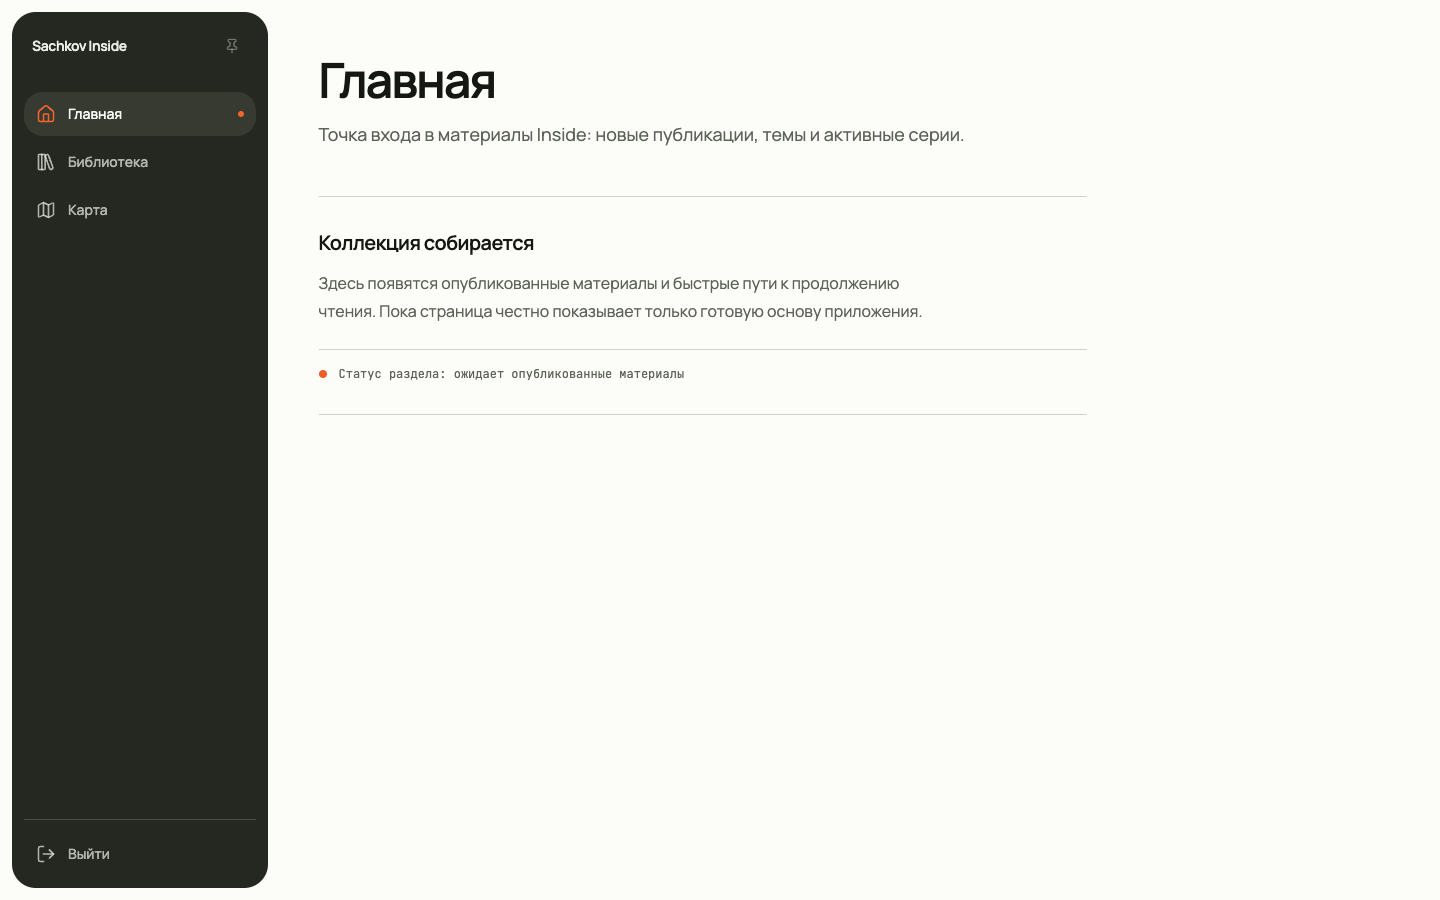
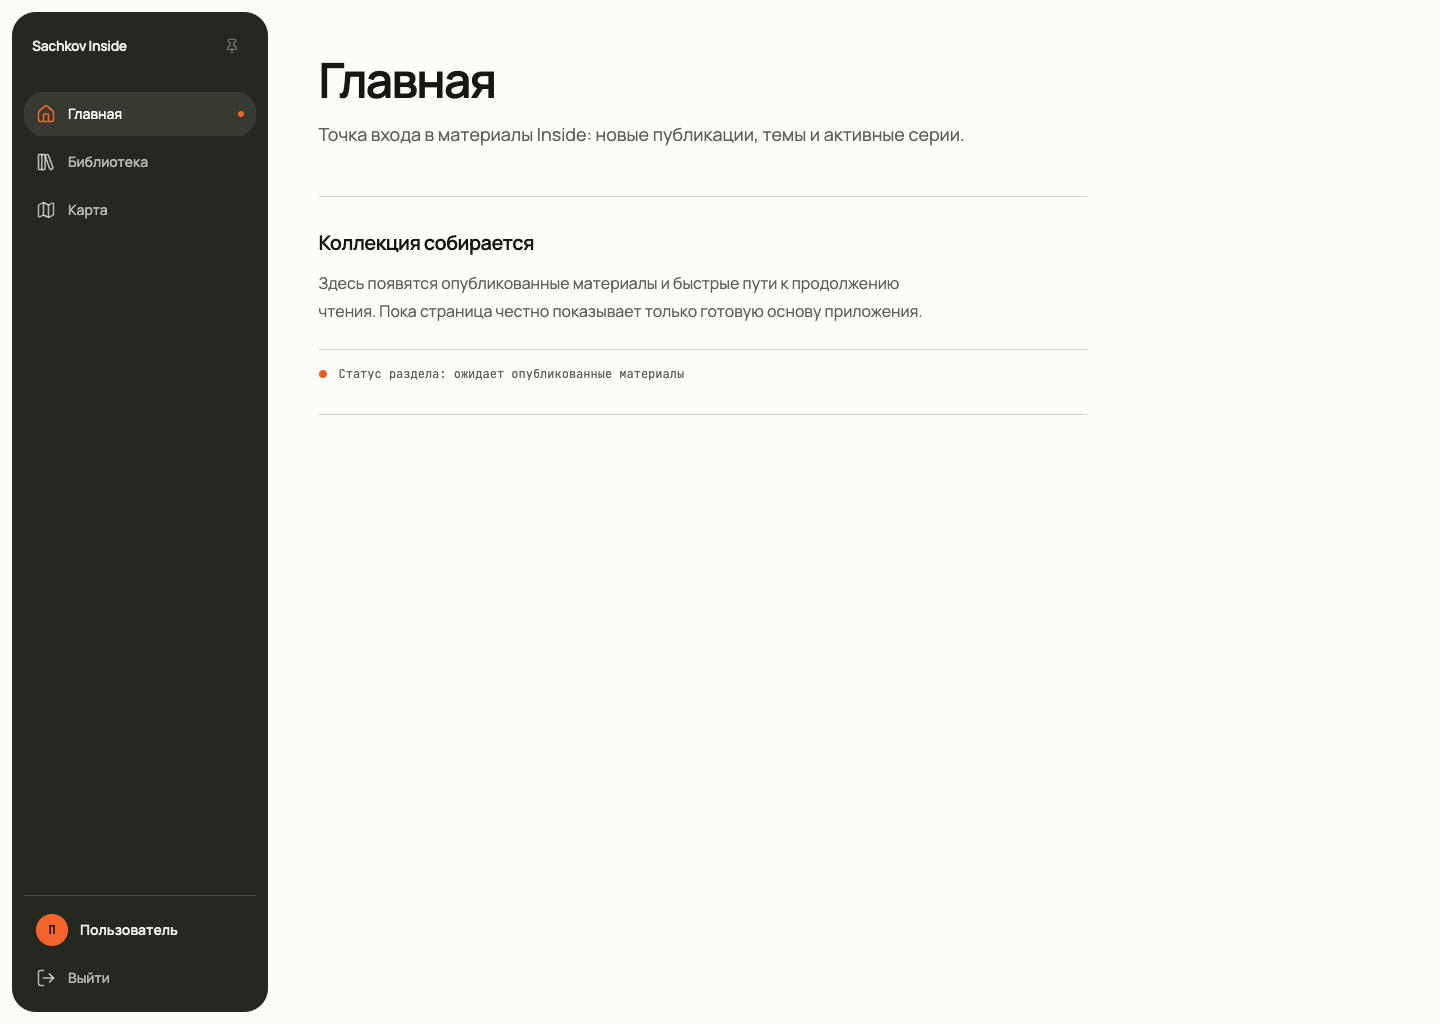
feat: align identity experience with Platform (#49)

diff --git a/infra/identity/logto/fork/packages/experience/src/containers/VerificationCode/use-sign-in-flow-code-verification.ts b/infra/identity/logto/fork/packages/experience/src/containers/VerificationCode/use-sign-in-flow-code-verification.ts
@@ -1,0 +1,135 @@
+import {
+  InteractionEvent,
+  type VerificationCodeIdentifier,
+} from '@logto/schemas';
+import { useCallback, useMemo } from 'react';
+
+import { identifyWithVerificationCode, registerWithVerifiedIdentifier } from '@/apis/experience';
+import useApi from '@/hooks/use-api';
+import type { ErrorHandlers } from '@/hooks/use-error-handler';
+import useErrorHandler from '@/hooks/use-error-handler';
+import useGlobalRedirectTo from '@/hooks/use-global-redirect-to';
+import useNavigateWithPreservedSearchParams from '@/hooks/use-navigate-with-preserved-search-params';
+import { useSieMethods } from '@/hooks/use-sie';
+import useSubmitInteractionErrorHandler from '@/hooks/use-submit-interaction-error-handler';
+import useTerms from '@/hooks/use-terms';
+
+import useGeneralVerificationCodeErrorHandler from './use-general-verification-code-error-handler';
+import useIdentifierErrorAlert, { IdentifierErrorType } from './use-identifier-error-alert';
+
+const useSignInFlowCodeVerification = (
+  identifier: VerificationCodeIdentifier,
+  verificationId: string,
+  errorCallback?: () => void
+) => {
+  const { termsValidation } = useTerms();
+  const navigate = useNavigateWithPreservedSearchParams();
+  const redirectTo = useGlobalRedirectTo();
+  const { isVerificationCodeEnabledForSignUp } = useSieMethods();
+  const handleError = useErrorHandler();
+  const registerWithIdentifierAsync = useApi(registerWithVerifiedIdentifier);
+  const asyncSignInWithVerificationCodeIdentifier = useApi(identifyWithVerificationCode);
+
+  const { errorMessage, clearErrorMessage, generalVerificationCodeErrorHandlers } =
+    useGeneralVerificationCodeErrorHandler();
+
+  const preSignInErrorHandler = useSubmitInteractionErrorHandler(InteractionEvent.SignIn, {
+    replace: true,
+  });
+  const preRegisterErrorHandler = useSubmitInteractionErrorHandler(InteractionEvent.Register, {
+    replace: true,
+  });
+
+  const showIdentifierErrorAlert = useIdentifierErrorAlert();
+
+  const identifierNotExistErrorHandler = useCallback(async () => {
+    const { type, value } = identifier;
+
+    if (!isVerificationCodeEnabledForSignUp(type)) {
+      void showIdentifierErrorAlert(IdentifierErrorType.IdentifierNotExist, type, value);
+
+      return;
+    }
+
+    // Inside uses one email-code entry point for both returning and new users. Once Logto has
+    // verified an unknown address, continue registration directly instead of interrupting the
+    // user with the provider's redundant "create account?" confirmation.
+    if (!(await termsValidation())) {
+      navigate(-1);
+      return;
+    }
+
+    const [error, result] = await registerWithIdentifierAsync(verificationId);
+
+    if (error) {
+      await handleError(error, preRegisterErrorHandler);
+
+      return;
+    }
+
+    if (result?.redirectTo) {
+      await redirectTo(result.redirectTo);
+    }
+  }, [
+    identifier,
+    isVerificationCodeEnabledForSignUp,
+    termsValidation,
+    showIdentifierErrorAlert,
+    registerWithIdentifierAsync,
+    verificationId,
+    handleError,
+    preRegisterErrorHandler,
+    redirectTo,
+    navigate,
+  ]);
+
+  const errorHandlers = useMemo<ErrorHandlers>(
+    () => ({
+      'user.user_not_exist': identifierNotExistErrorHandler,
+      ...generalVerificationCodeErrorHandlers,
+      ...preSignInErrorHandler,
+      callback: errorCallback,
+    }),
+    [
+      errorCallback,
+      identifierNotExistErrorHandler,
+      preSignInErrorHandler,
+      generalVerificationCodeErrorHandlers,
+    ]
+  );
+
+  const onSubmit = useCallback(
+    async (code: string) => {
+      const [error, result] = await asyncSignInWithVerificationCodeIdentifier({
+        verificationId,
+        identifier,
+        code,
+      });
+
+      if (error) {
+        await handleError(error, errorHandlers);
+        return;
+      }
+
+      if (result?.redirectTo) {
+        await redirectTo(result.redirectTo);
+      }
+    },
+    [
+      asyncSignInWithVerificationCodeIdentifier,
+      errorHandlers,
+      handleError,
+      identifier,
+      redirectTo,
+      verificationId,
+    ]
+  );
+
+  return {
+    errorMessage,
+    clearErrorMessage,
+    onSubmit,
+  };
+};
+
+export default useSignInFlowCodeVerification;

diff --git a/apps/web/src/widgets/auth-control/ui/auth-control.client.tsx b/apps/web/src/widgets/auth-control/ui/auth-control.client.tsx
@@ -10,6 +10,8 @@ interface AuthControlStateProps {
   readonly state: AuthControlState;
 }
 
+const authenticatedAccountLabel = "Пользователь";
+
 const contentByState = {
   authenticated: { action: "/auth/sign-out", Icon: LogOut, label: "Выйти" },
   guest: { action: "/auth/sign-in", Icon: LogIn, label: "Войти" },
@@ -24,27 +26,55 @@ export function DesktopAuthControl({ state }: AuthControlStateProps) {
   const { action, Icon, label } = contentByState[state];
 
   return (
-    <form action={action} method="post">
-      <button
-        aria-label={label}
-        className={cn(
-          "flex min-h-11 w-full items-center gap-3 rounded-xl px-3 text-sm font-medium text-sidebar-foreground/72",
-          "transition-colors duration-[var(--motion-duration-fast)] ease-[var(--motion-ease-out)] hover:bg-sidebar-accent hover:text-sidebar-accent-foreground focus-visible:outline-sidebar-ring motion-reduce:transition-none",
-        )}
-        type="submit"
-      >
-        <Icon aria-hidden="true" className="size-5 shrink-0" />
-        <span
-          aria-hidden="true"
+    <div className="grid gap-1">
+      {state === "authenticated" ? <DesktopAccountIdentity /> : null}
+      <form action={action} method="post">
+        <button
+          aria-label={label}
           className={cn(
-            "hidden -translate-x-1 whitespace-nowrap opacity-0 transition-[opacity,transform] duration-[var(--motion-duration-fast)] ease-[var(--motion-ease-out)] motion-reduce:transition-none md:inline",
-            "group-data-[state=expanded]/sidebar:translate-x-0 group-data-[state=expanded]/sidebar:opacity-100",
+            "flex min-h-11 w-full items-center gap-3 rounded-xl px-3 text-sm font-medium text-sidebar-foreground/72",
+            "transition-colors duration-[var(--motion-duration-fast)] ease-[var(--motion-ease-out)] hover:bg-sidebar-accent hover:text-sidebar-accent-foreground focus-visible:outline-sidebar-ring motion-reduce:transition-none",
           )}
+          type="submit"
         >
-          {label}
-        </span>
-      </button>
-    </form>
+          <Icon aria-hidden="true" className="size-5 shrink-0" />
+          <span
+            aria-hidden="true"
+            className={cn(
+              "hidden -translate-x-1 whitespace-nowrap opacity-0 transition-[opacity,transform] duration-[var(--motion-duration-fast)] ease-[var(--motion-ease-out)] motion-reduce:transition-none md:inline",
+              "group-data-[state=expanded]/sidebar:translate-x-0 group-data-[state=expanded]/sidebar:opacity-100",
+            )}
+          >
+            {label}
+          </span>
+        </button>
+      </form>
+    </div>
+  );
+}
+
+function DesktopAccountIdentity() {
+  return (
+    <div
+      aria-label={`Текущий профиль: ${authenticatedAccountLabel}`}
+      className="flex min-h-11 items-center gap-3 rounded-xl px-3 text-sm font-semibold text-sidebar-foreground"
+      role="group"
+    >
+      <span
+        aria-hidden="true"
+        className="grid size-8 shrink-0 place-items-center rounded-full bg-sidebar-primary font-mono text-xs font-bold text-sidebar-primary-foreground"
+      >
+        П
+      </span>
+      <span
+        className={cn(
+          "hidden min-w-0 -translate-x-1 truncate opacity-0 transition-[opacity,transform] duration-[var(--motion-duration-fast)] ease-[var(--motion-ease-out)] motion-reduce:transition-none md:inline",
+          "group-data-[state=expanded]/sidebar:translate-x-0 group-data-[state=expanded]/sidebar:opacity-100",
+        )}
+      >
+        {authenticatedAccountLabel}
+      </span>
+    </div>
   );
 }
 

diff --git a/infra/identity/logto/fork/packages/experience/src/Layout/AppLayout/index.module.scss b/infra/identity/logto/fork/packages/experience/src/Layout/AppLayout/index.module.scss
@@ -5,6 +5,8 @@
   position: absolute;
   inset: 0;
   overflow: auto;
+  color: #151812;
+  background: #f3f4ee;
 }
 
 .container {
@@ -26,7 +28,7 @@
     align-self: stretch;
     padding: _.unit(4) _.unit(5);
     position: relative;
-    background: var(--color-bg-body);
+    background: #f3f4ee;
   }
 }
 
@@ -41,8 +43,9 @@
     position: relative;
     padding: _.unit(6);
     border-radius: 16px;
-    background: var(--color-bg-float);
-    box-shadow: var(--color-shadow-2);
+    border: 1px solid #d0d2c8;
+    background: #fcfcf9;
+    box-shadow: 0 12px 32px -16px rgb(21 24 18 / 28%);
   }
 
   @media only screen and (max-width: 580px) {

diff --git a/infra/identity/logto/README.md b/infra/identity/logto/README.md
@@ -44,20 +44,24 @@ from the official `1.41.0` multi-platform image by exact digest. That image corr
 revision `91e55698a42f99438cd41ec2b16a1fc51dbdab8a`. PostgreSQL, Mailpit, `@logto/next` and `jose` are
 also exact-versioned; the tooling test rejects floating image references.
 
-The fork replaces exactly three upstream Experience files:
+The fork replaces exactly four upstream Experience files:
 
 - `Layout/AppLayout/index.tsx` removes the provider signature from every state;
-- `Layout/AppLayout/index.module.scss` removes the now-unused signature placement;
+- `Layout/AppLayout/index.module.scss` removes the now-unused signature placement and applies the
+  Platform light surfaces;
+- `containers/VerificationCode/use-sign-in-flow-code-verification.ts` turns a verified unknown
+  email into a registration without the redundant provider confirmation;
 - `utils/sign-in-experience.ts` replaces the provider fallback title with `Sachkov Inside`.
 
 All other appearance stays provider-configured. The Management API bootstrap owns the empty logo,
-language and accent settings; this keeps the source delta small and reviewable.
+forced Russian language, Platform accent and light-mode settings; this keeps the source delta small
+and reviewable.
 
 ## Updating the fork
 
 1. Create a disposable checkout of the next Logto release and record its tag, commit and official
    image index digest.
-2. Compare the three files above against `fork/`, reapply only the documented delta and copy the
+2. Compare the four files above against `fork/`, reapply only the documented delta and copy the
    resulting complete files into this directory.
 3. Update `versions.json`, the `Dockerfile` base digest/labels and Compose image digests together.
 4. Run `node --test scripts/identity-proof-artifacts.test.mjs` and
